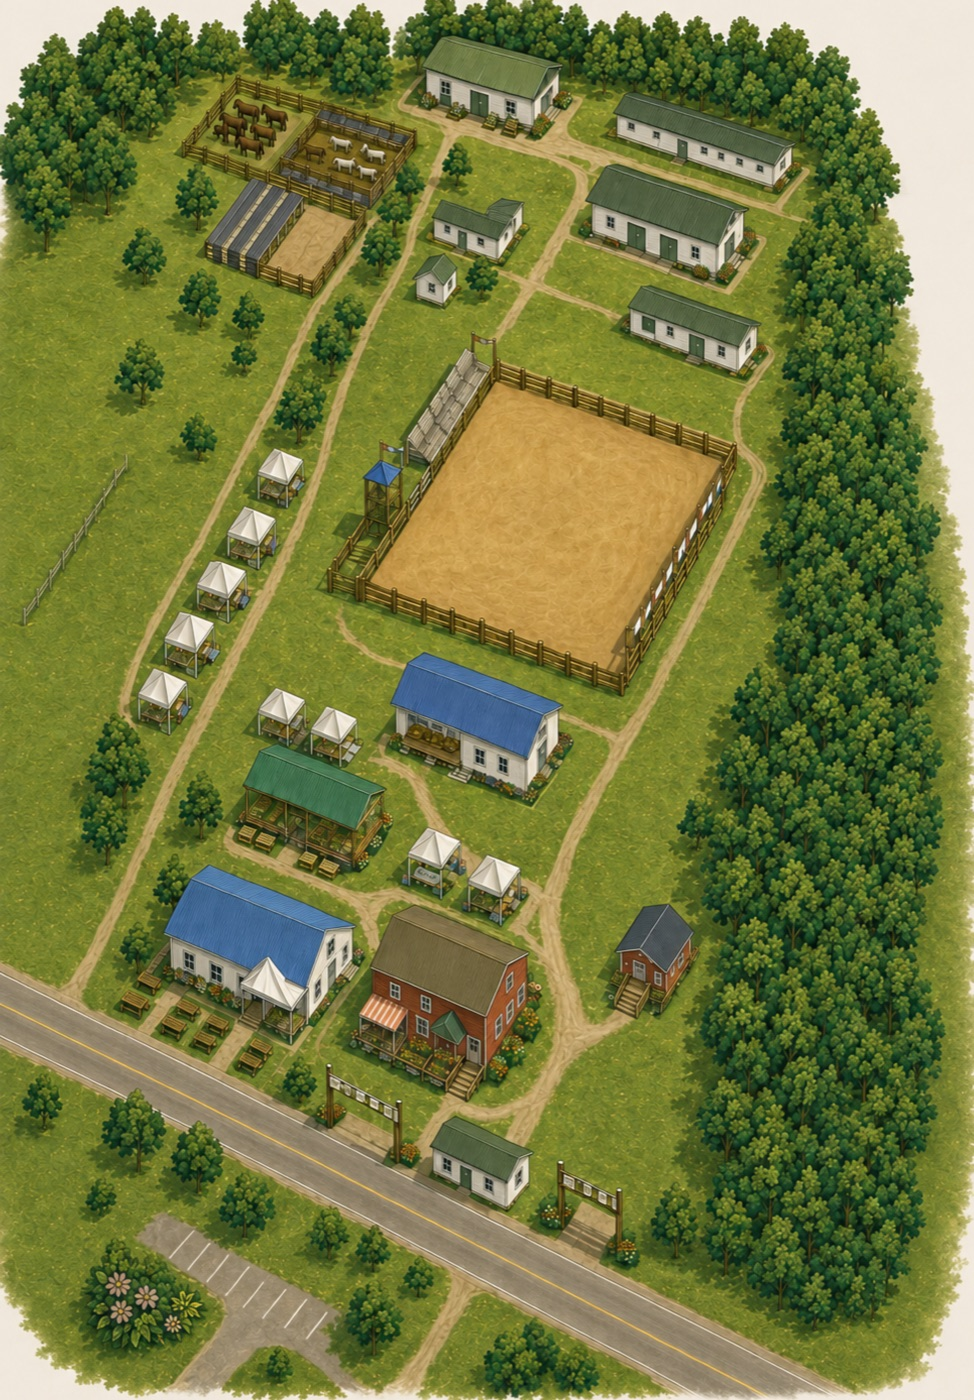
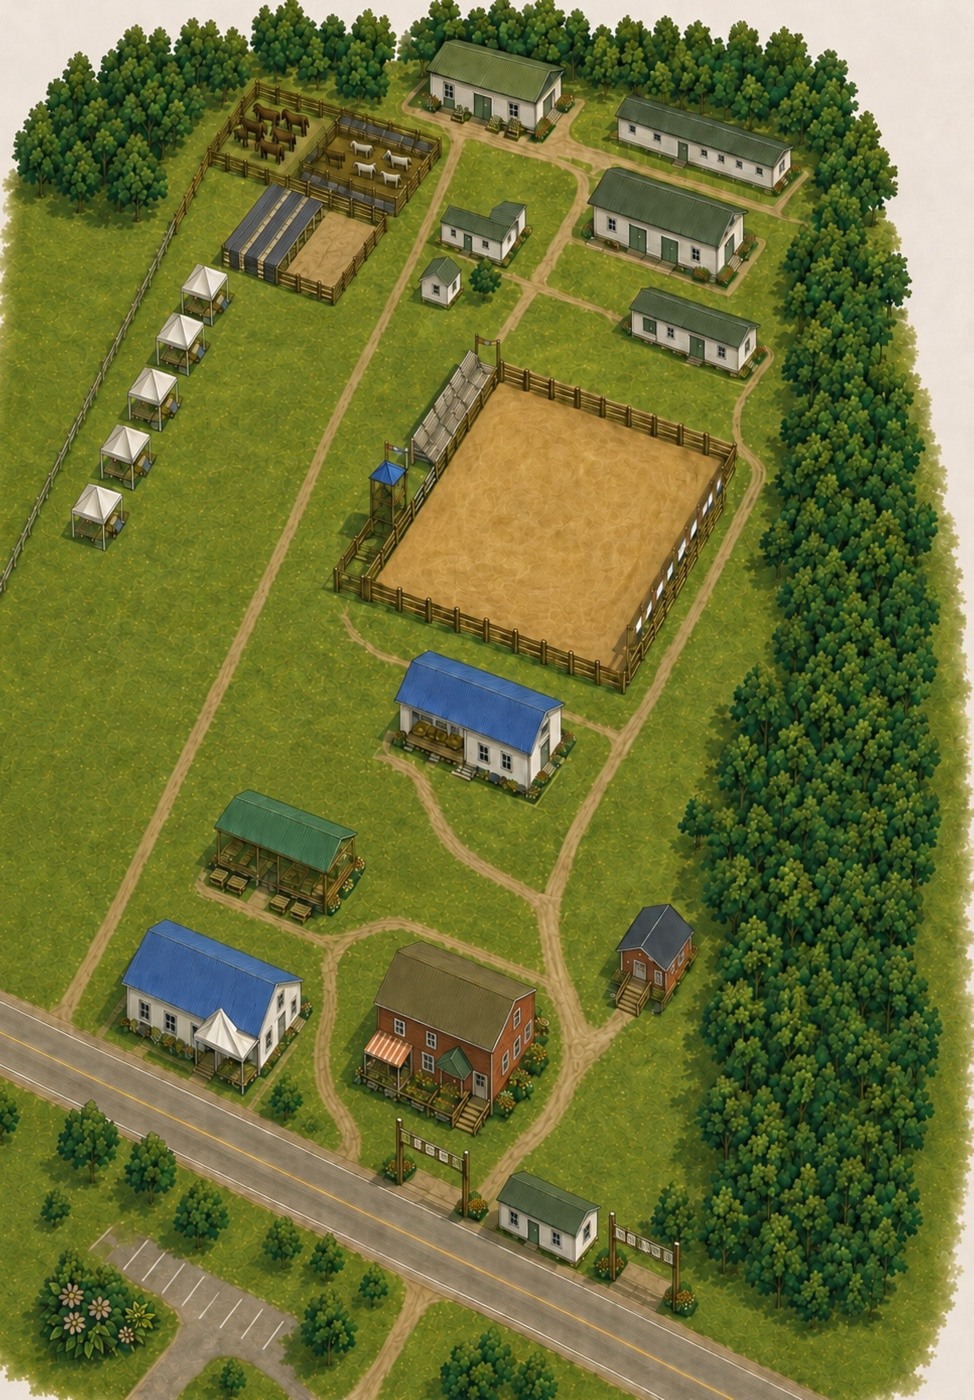
Fairgrounds map: the spaced-buildings, no-tents plate
Jesse's revised render (Havelock-Fair-Map-Spaced-Buildings-No-Tents-High-
Resolution.png, 2026-09-10). Same grounds, three changes: the exhibitor tents
now line the west fence instead of cutting diagonally through the middle, the
two stray tents beside the Vegetable building are gone, and the buildings
along Route 202 are spread apart so their pins stop crowding.

The render is composed about 200px right and 140px higher than the previous
one, so the crop follows it: 3864x5556 at (200, 320) instead of (0, 460),
measured by pixel-matching the two sources. Keeping the crop locked to the
drawing meant pins 7, 8 and 10-17 did not move at all. Re-measured against a
pin overlay: 4, 5, 6 onto their roofs, 9 onto the fence-line tents, and the
three at the gate (1 pedestrian gate, 3 office, 2 vehicle gate), which the
respacing had put on each other's structures.

verify-map: 61/61, no overlapping pins at 390/768/1440.

diff --git a/js/map-data.js b/js/map-data.js
@@ -22,10 +22,17 @@
  * pages/directions.html?calibrate=1 prints the percentage under the cursor and
  * copies it on click, which makes that minutes rather than a chore.
  *
- * THE ARTWORK (2026-09-06, Jesse). A top-down illustrated plan commissioned to
- * match the fair's own numbered site plan building for building. Two versions
- * were generated: a labelled one carrying painted number badges and a bilingual
- * legend, and this UNLABELLED plate. The unlabelled plate is what ships — the
+ * THE ARTWORK (2026-09-06, revised 2026-09-10, Jesse). A top-down illustrated
+ * plan commissioned to match the fair's own numbered site plan building for
+ * building. Several versions were generated: a labelled one carrying painted
+ * number badges and a bilingual legend, and UNLABELLED plates. The plate that
+ * ships is "Spaced-Buildings-No-Tents": the exhibitor tents run along the WEST
+ * FENCE rather than through the middle of the grounds, the two small tents
+ * beside 6 are gone, and the buildings along Route 202 are spread further
+ * apart. Source is a 4096x6144 PNG; the shipped JPEG is the 3864x5556 window
+ * at offset (200, 320), scaled to 974x1400. Pins 1-6 and 9 were re-measured
+ * for it; 7, 8 and 10-17 carried over unchanged because that half of the
+ * drawing did not move. The unlabelled plate is what ships — the
  * badges would have doubled up with the HTML pins, and a baked-in legend cannot
  * translate to Spanish or be reached by a keyboard. The labelled version stays
  * useful as the reference for WHICH BUILDING IS WHICH when re-measuring pins.
@@ -41,8 +48,8 @@
  * the grounds. Markers are markers, not survey points.
  *
  * ⚠ 9 Booths is really THREE locations — the fair's plan marks it three times,
- * and the art draws a row of tents. One pin can only sit at one of them; it is
- * placed on the upper cluster, which is the largest.
+ * and the art draws a row of tents along the west fence. One pin can only sit
+ * at one of them; it is placed on the middle tent of the row.
  *
  * Spanish is ours — the fair's plan is EN/FR only.
  */
@@ -69,15 +76,15 @@ const mapCategories = {
  */
 
 const mapLocations = {
-  1:  { cat: "services",    x:  36.5, y:  77.5, en: "Gate #2 (Pedestrian)",              fr: "Gate #2 (piéton)",                       es: "Puerta n.º 2 (peatonal)" },
-  2:  { cat: "services",    x:  60.5, y:  84.5, en: "Gate #1 (Vehicles)",                fr: "Gate #1 (véhicules)",                    es: "Puerta n.º 1 (vehículos)" },
-  3:  { cat: "services",    x:  49.5, y:  82.5, en: "Office",                            fr: "Bureau",                                 es: "Oficina" },
-  4:  { cat: "exhibits",    x:  24.0, y:  69.0, en: "Dining Hall & Art Display",         fr: "Salle à dîner et exposition d'art",      es: "Comedor y exposición de arte" },
-  5:  { cat: "exhibits",    x:  45.0, y:  72.5, en: "Baked Goods & Handicraft Building", fr: "Exposition confection et artisanat",     es: "Repostería y artesanía" },
-  6:  { cat: "exhibits",    x:  31.0, y:  56.5, en: "Vegetable, Fruit & Flower Building",fr: "Exposition fleur, légume et fruit",      es: "Verduras, frutas y flores" },
+  1:  { cat: "services",    x:  44.0, y:  82.0, en: "Gate #2 (Pedestrian)",              fr: "Gate #2 (piéton)",                       es: "Puerta n.º 2 (peatonal)" },
+  2:  { cat: "services",    x:  67.5, y:  89.5, en: "Gate #1 (Vehicles)",                fr: "Gate #1 (véhicules)",                    es: "Puerta n.º 1 (vehículos)" },
+  3:  { cat: "services",    x:  56.5, y:  87.0, en: "Office",                            fr: "Bureau",                                 es: "Oficina" },
+  4:  { cat: "exhibits",    x:  22.0, y:  71.5, en: "Dining Hall & Art Display",         fr: "Salle à dîner et exposition d'art",      es: "Comedor y exposición de arte" },
+  5:  { cat: "exhibits",    x:  46.5, y:  73.5, en: "Baked Goods & Handicraft Building", fr: "Exposition confection et artisanat",     es: "Repostería y artesanía" },
+  6:  { cat: "exhibits",    x:  29.5, y:  60.5, en: "Vegetable, Fruit & Flower Building",fr: "Exposition fleur, légume et fruit",      es: "Verduras, frutas y flores" },
   7:  { cat: "amenities",   x:  66.5, y:  68.5, en: "Sugar Shack",                       fr: "Cabane à sucre",                         es: "Cabaña de azúcar" },
   8:  { cat: "events",      x:  48.0, y:  52.0, en: "Music Building",                    fr: "Musique",                                es: "Edificio de música" },
-  9:  { cat: "amenities",   x:  22.0, y:  43.0, en: "Booths",                            fr: "Kiosques",                               es: "Casetas" },
+  9:  { cat: "amenities",   x:  15.5, y:  28.5, en: "Booths",                            fr: "Kiosques",                               es: "Casetas" },
   10: { cat: "events",      x:  55.0, y:  37.0, en: "Horse Ring",                        fr: "Aréna équestre",                         es: "Arena ecuestre" },
   11: { cat: "agriculture", x:  43.5, y:  21.3, en: "Large Poultry",                     fr: "Grosse volaille",                        es: "Aves grandes"   },
   12: { cat: "agriculture", x:  49.0, y:  15.5, en: "Poultry & Rabbit Building",         fr: "Exposition volaille",                    es: "Aves y conejos" },
